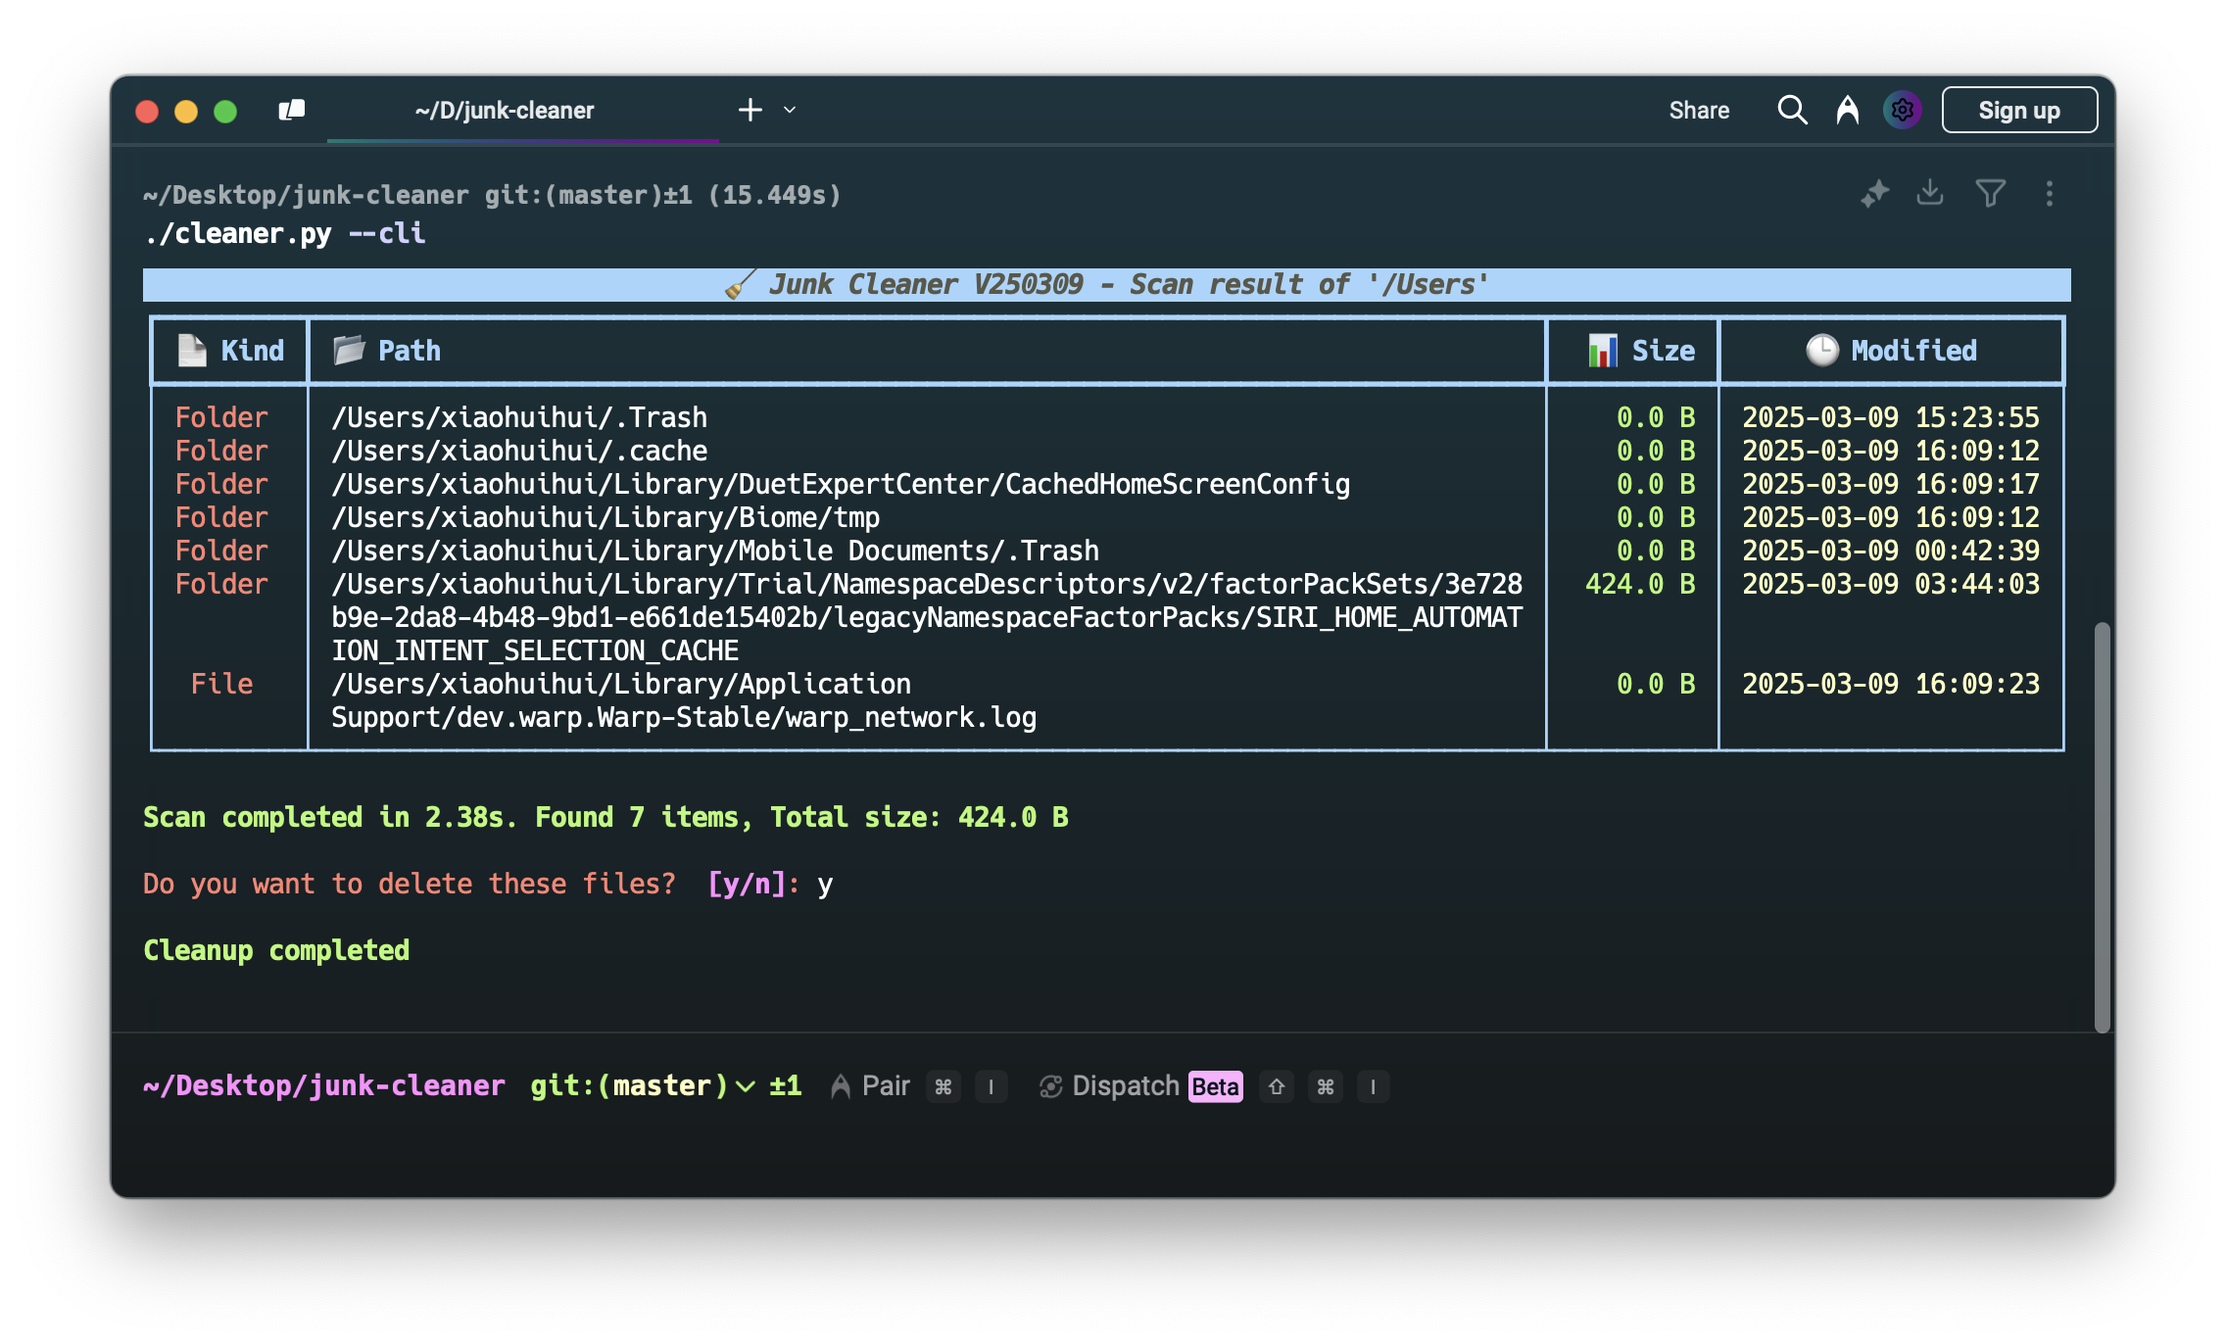
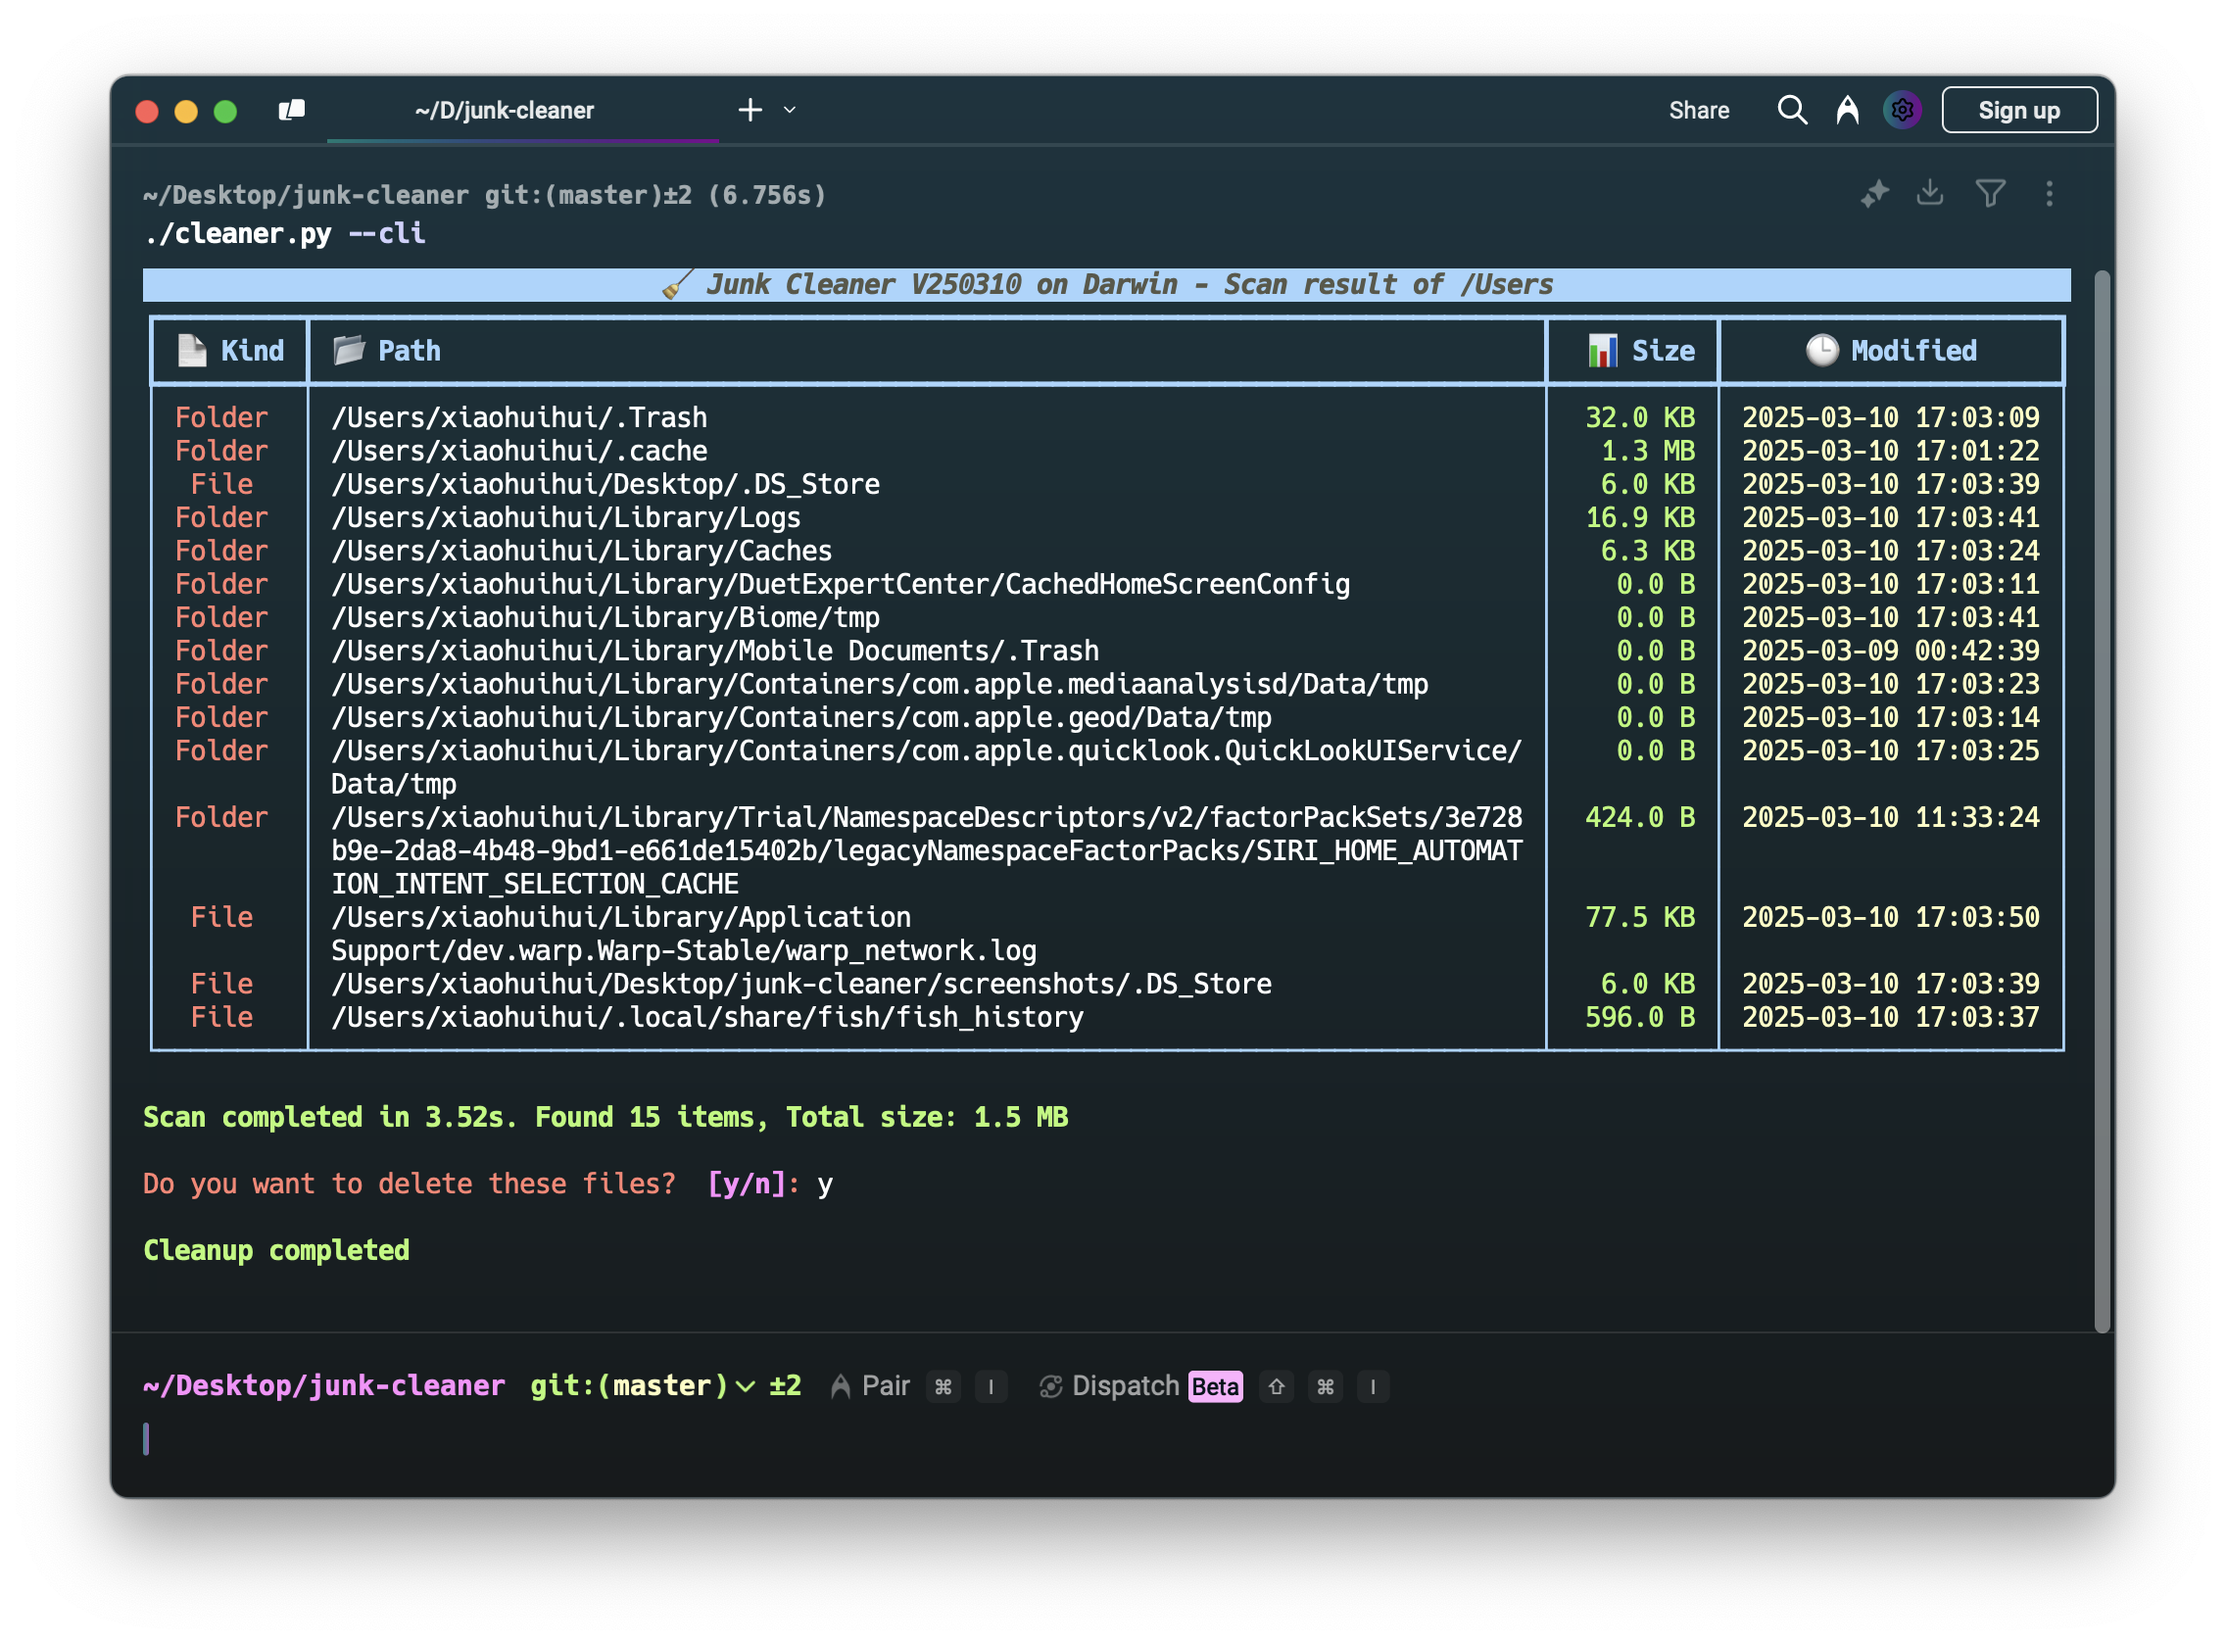
Updated 250310

diff --git a/cleaner.py b/cleaner.py
@@ -10,8 +10,9 @@ from rich.text import Text
 from rich.table import Table
 from rich.prompt import Confirm
 
-APP_TITLE = "🧹 Junk Cleaner V250309"
 OS = platform.system()
+APP_TITLE = f"🧹 Junk Cleaner V250310 on {OS}"
+RUNTIME_VERSION = f"Python {sys.version.split()[0]} / tkinter {tk.TkVersion}"
 DEFAULT_SCAN_PATH = {"Darwin": Path("/Users"), "Windows": Path("C:/")}.get(OS, Path("/home"))
 JUNK_FILES = {
     "names": (".DS_Store", "desktop.ini", "Thumbs.db", ".bash_history", ".zsh_history", "fish_history",
@@ -146,14 +147,14 @@ class GUI:
         self.context_menu = None
 
         if tk.TkVersion < 9.0:
-            messagebox.showerror("Error", f"Requires Tk 9.0+. Your version: {tk.TkVersion}")
+            messagebox.showerror("Error", f"Requires Tk 9.0+. Your version: {RUNTIME_VERSION}")
             sys.exit()
 
         # 创建主窗口
         self.root = tk.Tk()
         self.root.geometry("1152x720")
         self.root.minsize(1024, 640)
-        self.root.title(APP_TITLE)
+        self.root.title(f"{APP_TITLE} - {RUNTIME_VERSION}")
 
         # 路径标签
         ttk.Label(self.root, text="Path to scan:").grid(row=0, column=0, padx=10, pady=5, sticky="w")
@@ -485,14 +486,14 @@ class CLI:
             self.status.start()
             self.core.action("scan", path)
             self.check_queue(time.time(), path, auto)
-        except KeyboardInterrupt:
+        except (KeyboardInterrupt, EOFError):
             self.exit()
 
     def check_queue(self, start_time: float, path: Path, auto: bool = False) -> None:
         """检查队列中的消息"""
 
         # 创建结果表格
-        table = Table(title=f"{APP_TITLE} - Scan result of \'{str(path)}\'",
+        table = Table(title=f"{APP_TITLE} - Scan result of {str(path)}",
                       title_style="b i bright_yellow on blue",
                       header_style="b blue", border_style="blue")
         table.add_column("📄 Kind", justify="center", style="red", min_width=6)
@@ -528,10 +529,10 @@ class CLI:
                             self.console.print(table)
 
                         # 打印统计信息
-                        done_text = Text(f"\nScan completed in {elapsed:.2f}s. ", style="b green")
-                        done_text.append(f"Found {file_count} items, ", style="b green")
-                        done_text.append(f"Total size: {self.core.format_size(total_size)}", style="b green")
-                        self.console.print(done_text)
+                        done = Text(f"\nScan completed in {elapsed:.2f}s. ", style="b green")
+                        done.append(f"Found {file_count} items, ", style="b green")
+                        done.append(f"Total size: {self.core.format_size(total_size)}", style="b green")
+                        self.console.print(done)
 
                         # 显示通知
                         Core.send_notification(f"🔍 Scan completed in {elapsed:.2f}s",
@@ -539,8 +540,8 @@ class CLI:
 
                         if self.results:  # 如果找到垃圾文件
                             if not auto:  # 非 --auto 模式下要求确认
-                                ask_text = Text("\nDo you want to delete these files? ", style="red")
-                                if not Confirm.ask(ask_text):
+                                ask = Text("\nDo you want to delete these files? ", style="red")
+                                if not Confirm.ask(ask):
                                     self.exit()
 
                             # 显示状态动画, 开始清理
@@ -560,7 +561,7 @@ class CLI:
                         Core.send_notification("✅ Cleanup completed", "Cleanup completed successfully")
                         return
 
-        except KeyboardInterrupt:
+        except (KeyboardInterrupt, EOFError):
             self.exit()
         except Exception:
             self.console.print(f"Error processing scan results: {str(Exception)}", style="red")
@@ -576,7 +577,7 @@ class CLI:
 if __name__ == "__main__":
 
     # 命令行参数
-    parser = argparse.ArgumentParser(description=APP_TITLE)
+    parser = argparse.ArgumentParser(description=f"{APP_TITLE} - {RUNTIME_VERSION}")
     parser.add_argument("--cli", "-c", action="store_true", help="run in CLI mode")
     parser.add_argument("--auto", "-a", action="store_true",
                         help="auto clean without confirmation (only works in CLI mode)")
